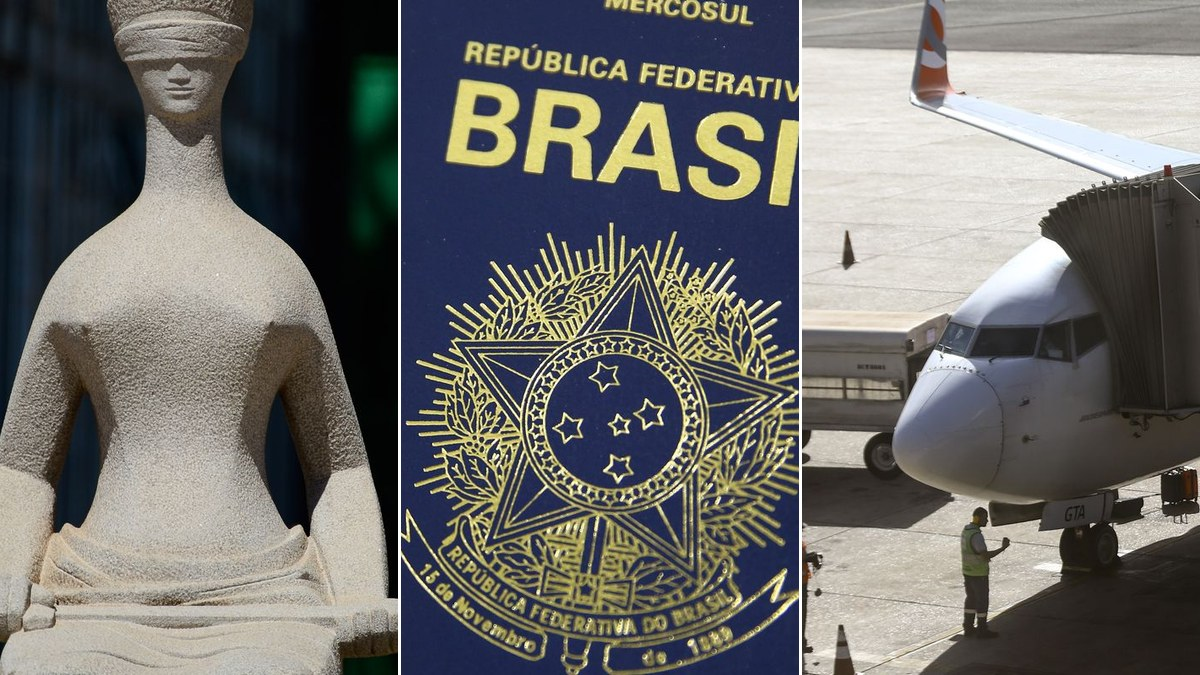
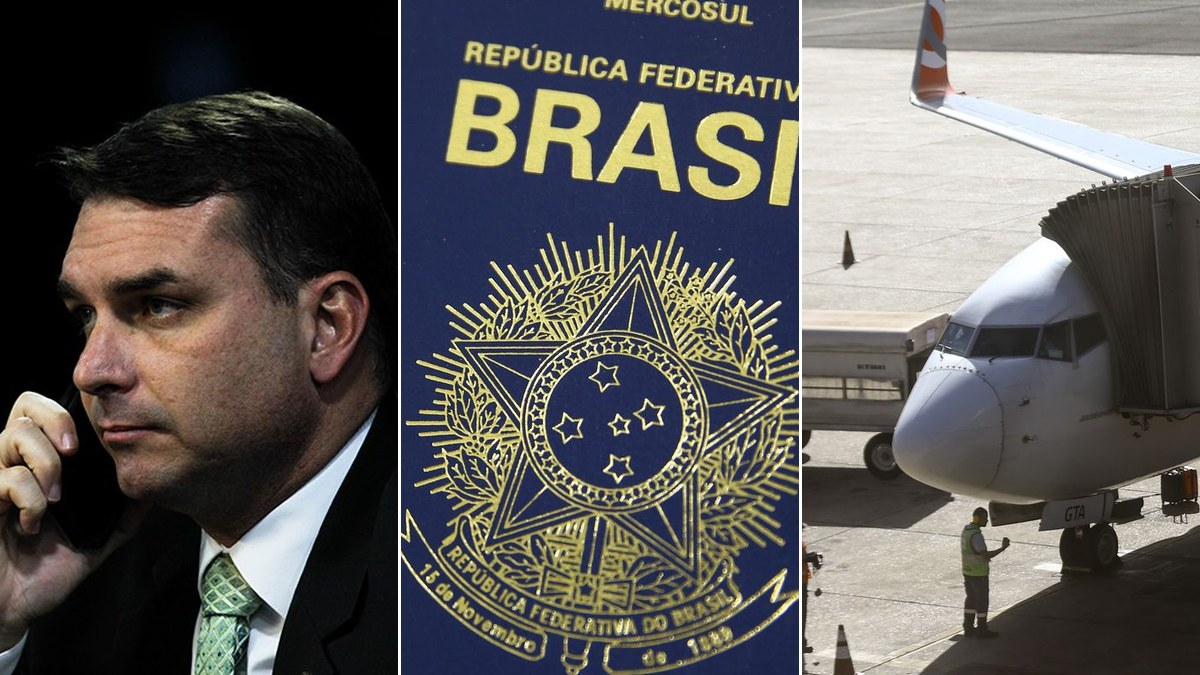
Capa do Flávio: rosto dele no lugar da estátua da Justiça
Claude-Session: https://claude.ai/code/session_01Xv8hseyMzanuP1xT9NWyRc

Changed region(s): [[0.0, 0.0, 0.3392, 1.0]]

diff --git a/noticias/flavio-bolsonaro-prazo-passaportes-vence-pf-apura-saida-do-pais/index.html b/noticias/flavio-bolsonaro-prazo-passaportes-vence-pf-apura-saida-do-pais/index.html
@@ -36,7 +36,7 @@
 <p class="linha-fina">O senador não entregou os passaportes no prazo e deixou o país com a mulher e as filhas, segundo a PF, aliados e fontes do governo americano. O Departamento de Estado confirmou à CNN Brasil que vai emitir os vistos. Flávio não se manifestou.</p>
 <div class="assina"><strong>Da Redação</strong><span><time datetime="2026-10-27">terça-feira, 27 de outubro de 2026</time> · Atualizado em 27 out 2026</span></div>
 </div>
-<div class="wrap media"><figure class="hero"><img src="/img/capa/flavio-bolsonaro-prazo-passaportes-vence-pf-apura-saida-do-pais.jpg?v=9e80febb" alt="" width="1200" height="675"><figcaption>Estátua da Justiça, em frente ao STF (Marcello Casal Jr/Agência Brasil, 2009); passaporte brasileiro e avião em aeroporto (Marcelo Camargo/Agência Brasil, 2022). Fotos de arquivo</figcaption></figure></div>
+<div class="wrap media"><figure class="hero"><img src="/img/capa/flavio-bolsonaro-prazo-passaportes-vence-pf-apura-saida-do-pais.jpg?v=0541cc61" alt="" width="1200" height="675"><figcaption>Flávio Bolsonaro (Beto Barata/Agência Senado); passaporte brasileiro e avião em aeroporto (Marcelo Camargo/Agência Brasil, 2022). Fotos de arquivo</figcaption></figure></div>
 <div class="wrap estreita corpo">
 <aside class="pv pv-red"><b>O QUE ACONTECEU</b><p>Flávio foi proibido pelo STF de deixar o país e mandado entregar os passaportes. Não entregou, saiu do Brasil e vai receber visto dos EUA. A rota da viagem ainda não foi esclarecida.</p></aside>
 <p>O senador Flávio Bolsonaro (PL-RJ) fugiu do Brasil. Ele estava proibido pelo Supremo Tribunal Federal de deixar o país e tinha até as 11h desta terça-feira (27) para entregar os passaportes à Polícia Federal. Não entregou e saiu com a mulher e as filhas, segundo a PF, ouvida pela Gazeta do Povo, aliados e fontes do governo americano ouvidas pela CNN Brasil. O governo dos Estados Unidos vai emitir vistos para ele e a família e permitir a entrada deles no país, confirmou à CNN um alto funcionário do Departamento de Estado, em reportagem publicada às 18h11 de Brasília (17h11 em Mato Grosso). Flávio não se manifestou.</p>
@@ -77,7 +77,7 @@
 <h2>O que ainda não se sabe</h2>
 <p>Flávio não falou publicamente desde o vídeo de segunda. A PF e o STF não divulgaram nota oficial sobre a saída, a rota da viagem não foi confirmada e a Argentina nega que ele tenha entrado no país. O Departamento de Estado não disse quando os vistos serão emitidos. O Agora Praça atualiza esta matéria depois da entrevista anunciada por aliados para quarta-feira (28).</p>
 <figure class="reel"><video controls playsinline preload="none" poster="/video/flavio-visto.jpg" width="1080" height="1920"><source src="/video/flavio-visto.mp4" type="video/mp4"></video><figcaption>Vídeo publicado no Instagram do Agora Praça</figcaption></figure>
-<p class="obs">Fotos de arquivo: Marcello Casal Jr/Agência Brasil (2009) e Marcelo Camargo/Agência Brasil (2022).</p>
+<p class="obs">Fotos de arquivo: Beto Barata/Agência Senado e Marcelo Camargo/Agência Brasil (2022).</p>
 <section class="fontes"><h2>Fontes</h2><ul><li><a href="https://www.cnnbrasil.com.br/internacional/departamento-de-estado-dos-eua-diz-a-cnn-que-emitira-vistos-para-flavio/" rel="noopener">CNN Brasil, Departamento de Estado confirma vistos para Flávio e família (27/10, 18h11)</a></li><li><a href="https://www.cnnbrasil.com.br/blogs/jussara-soares/politica/flavio-chega-com-mulher-e-filhas-aos-eua/" rel="noopener">CNN Brasil, coluna de Jussara Soares: Flávio chega com mulher e filhas aos EUA (27/10, 17h39)</a></li><li><a href="https://piauihoje.com/noticias/politica/flavio-bolsonaro-chega-aos-eua-e-deve-dar-entrevista-na-quarta-feira-28-diz-aliado-469475.html" rel="noopener">UOL, via Portal Piauí Hoje, aliado confirma chegada e entrevista na quarta (27/10, 17h19)</a></li><li><a href="https://www.metropoles.com/mundo/aliado-de-trump-diz-que-flavio-bolsonaro-chegou-aos-eua-em-seguranca" rel="noopener">Metrópoles, Simón Levy diz que Flávio chegou aos EUA (27/10)</a></li><li><a href="https://laopinion.com/2025/10/30/simon-levy-exfuncionario-de-amlo-dice-que-esta-en-ee-uu-sheinbaum-afirma-que-fue-arrestado-en-portugal/" rel="noopener">La Opinión, quem é Simón Levy e as acusações no México (30/10/2025)</a></li><li><a href="https://www.gazetadopovo.com.br/republica/pf-confirma-flavio-bolsonaro-deixou-brasil/" rel="noopener">Gazeta do Povo, a PF confirmaria a saída, por autoridade sem nome (27/10, atualizada às 14h21)</a></li><li><a href="https://www.cnnbrasil.com.br/politica/aliados-dizem-que-flavio-bolsonaro-esta-fora-do-brasil/" rel="noopener">CNN Brasil, aliados dizem que Flávio está fora do Brasil (27/10, 14h14)</a></li><li><a href="https://metropoles.com/colunas/igor-gadelha/michelle-bolsonaro-confirma-a-aliados-que-flavio-deixou-o-brasil" rel="noopener">Metrópoles, Michelle Bolsonaro teria confirmado a aliados (27/10, 14h27)</a></li><li><a href="https://www.aosfatos.org/noticias/o-que-se-sabe-suposta-fuga-flavio-bolsonaro/" rel="noopener">Aos Fatos, o que se sabe sobre a suposta fuga (27/10, 13h05)</a></li><li><a href="https://www.metropoles.com/colunas/grande-angular/flavio-bolsonaro-foi-embora-para-os-eua-aviao-em-voo" rel="noopener">Metrópoles, coluna Grande Angular: &quot;Flávio Bolsonaro foi embora para os EUA&quot; (27/10, 13h41)</a></li><li><a href="https://jovempan.com.br/politica/flavio-bolsonaro-fugiu-do-brasil-e-esta-em-aviao-a-caminho-dos-eua/" rel="noopener">Jovem Pan, Flávio teria deixado o Brasil, segundo fontes não identificadas (27/10, 14h11)</a></li><li><a href="https://www.gazetadopovo.com.br/republica/advogados-confirmam-nao-localizaram-flavio-entregar-passaportes/" rel="noopener">Gazeta do Povo, advogados não localizaram Flávio e o prazo de 11h (27/10, 12h19)</a></li><li><a href="https://www.cnnbrasil.com.br/politica/sumico-de-flavio-incomoda-aliados-que-cobram-respostas/" rel="noopener">CNN Brasil, o sumiço e a posição da defesa e dos aliados (27/10, 11h51)</a></li><li><a href="https://www.cnnbrasil.com.br/eleicoes/flavio-diz-que-pf-exigiu-seus-passaportes-apos-visita-a-bolsonaro/" rel="noopener">CNN Brasil, o vídeo de Flávio (26/10, 16h52)</a></li><li><a href="https://www.correiodamanha.com.br/politica/2026/10/330309-argentina-nega-entrada-de-flavio-bolsonaro-no-pais-diz-governo-milei.html" rel="noopener">Correio da Manhã, reportagem do g1 com a resposta da Argentina (27/10)</a></li><li><a href="https://jovempan.com.br/politica/pf-aciona-autoridades-argentinas-para-apurar-possivel-fuga-de-flavio-do-brasil/" rel="noopener">Jovem Pan, a PF aciona autoridades argentinas (27/10, 9h29)</a></li><li><a href="https://www.brasildefato.com.br/2026/10/27/pf-rastreia-fronteiras-e-aciona-argentina-para-saber-se-flavio-bolsonaro-deixou-o-pais-aliados-negam/" rel="noopener">Brasil de Fato, o que se sabe sobre a suposta saída (27/10)</a></li><li><a href="https://www.metropoles.com/colunas/igor-gadelha/pf-aciona-autoridades-da-argentina-para-checar-possivel-viagem-de-flavio" rel="noopener">Metrópoles, coluna de Igor Gadelha (27/10)</a></li><li><a href="https://ndmais.com.br/politica/flavio-bolsonaro-ainda-nao-entregou-passaportes-moraes/" rel="noopener">ND Mais, Flávio ainda não entregou os passaportes (27/10)</a></li><li><a href="https://timesbrasil.com.br/brasil/moraes-bloqueia-r-6-bilhoes-e-cancela-passaportes-de-advogado-willer-tomaz/" rel="noopener">Times Brasil, Moraes bloqueia R$ 6 bilhões e cancela passaportes de Willer Tomaz (24/10)</a></li><li><a href="https://www.tse.jus.br/comunicacao/noticias/2026/Outubro/presidente-do-tse-anuncia-reeleicao-de-lula-e-faz-balanco-do-2o-turno-das-eleicoes-2026" rel="noopener">TSE, resultado do segundo turno (26/10)</a></li></ul><p class="obs">Viu um erro? Escreva para <a href="mailto:contato@agorapraca.com.br">contato@agorapraca.com.br</a>. Toda correção fica registrada na página de <a href="/sobre/#correcoes">correções</a>.</p></section>
 <div class="share"><a class="btn" href="https://www.instagram.com/agorapraca/" rel="noopener">Seguir no Instagram</a></div>
 </div>

diff --git a/politica/index.html b/politica/index.html
@@ -31,7 +31,7 @@
 </div></header>
 <main id="conteudo">
 <section class="sec"><div class="wrap"><div class="sec-head"><h1 class="h1-sec">Política</h1><span>Votações, decisões de governo e uso do dinheiro de todos, em Brasília e em Mato Grosso.</span></div>
-<div class="grade"><article class="item"><a href="/noticias/flavio-bolsonaro-prazo-passaportes-vence-pf-apura-saida-do-pais/"><div class="thumb"><img src="/img/capa/flavio-bolsonaro-prazo-passaportes-vence-pf-apura-saida-do-pais.jpg?v=9e80febb" alt="" loading="lazy" width="1200" height="675"></div>
+<div class="grade"><article class="item"><a href="/noticias/flavio-bolsonaro-prazo-passaportes-vence-pf-apura-saida-do-pais/"><div class="thumb"><img src="/img/capa/flavio-bolsonaro-prazo-passaportes-vence-pf-apura-saida-do-pais.jpg?v=0541cc61" alt="" loading="lazy" width="1200" height="675"></div>
 <div class="item-txt"><span class="kicker kicker-red">Política</span><h3>Flávio Bolsonaro foge do Brasil depois de ser proibido pelo STF de sair do país; EUA vão dar visto a ele e à família</h3><time datetime="2026-10-27">27 out 2026</time></div></a></article><article class="item"><a href="/noticias/tse-24-horas-meta-x-investigacao-favorecimento-flavio/"><div class="thumb"><img src="/img/capa/tse-24-horas-meta-x-investigacao-favorecimento-flavio.jpg?v=8314124a" alt="" loading="lazy" width="1200" height="675"></div>
 <div class="item-txt"><span class="kicker kicker-red">Política</span><h3>TSE dá 24 horas para Meta e X explicarem como tratam conteúdos de Lula e Flávio</h3><time datetime="2026-10-23">23 out 2026</time></div></a></article><article class="item"><a href="/noticias/tse-24-horas-meta-tratamento-igual-lula-flavio/"><div class="thumb"><img src="/img/thumb/meta.jpg?v=4d66564a" alt="" loading="lazy" width="1200" height="675"></div>
 <div class="item-txt"><span class="kicker kicker-red">Política</span><h3>TSE dá 24 horas para a Meta comprovar tratamento igual a Lula e Flávio</h3><time datetime="2026-10-19">19 out 2026</time></div></a></article><article class="item"><a href="/noticias/franca-toque-de-recolher-paris-protestos-saques/"><div class="thumb"><img src="/img/thumb/franca.jpg?v=5c9b748d" alt="" loading="lazy" width="1200" height="675"></div>

diff --git a/noticias/tse-24-horas-meta-tratamento-igual-lula-flavio/index.html b/noticias/tse-24-horas-meta-tratamento-igual-lula-flavio/index.html
@@ -60,7 +60,7 @@
 <div class="share"><a class="btn" href="https://www.instagram.com/agorapraca/" rel="noopener">Seguir no Instagram</a></div>
 </div>
 </article>
-<section class="sec"><div class="wrap"><div class="sec-head"><h2>Leia também</h2></div><div class="grade"><article class="item"><a href="/noticias/flavio-bolsonaro-prazo-passaportes-vence-pf-apura-saida-do-pais/"><div class="thumb"><img src="/img/capa/flavio-bolsonaro-prazo-passaportes-vence-pf-apura-saida-do-pais.jpg?v=9e80febb" alt="" loading="lazy" width="1200" height="675"></div>
+<section class="sec"><div class="wrap"><div class="sec-head"><h2>Leia também</h2></div><div class="grade"><article class="item"><a href="/noticias/flavio-bolsonaro-prazo-passaportes-vence-pf-apura-saida-do-pais/"><div class="thumb"><img src="/img/capa/flavio-bolsonaro-prazo-passaportes-vence-pf-apura-saida-do-pais.jpg?v=0541cc61" alt="" loading="lazy" width="1200" height="675"></div>
 <div class="item-txt"><span class="kicker kicker-red">Política</span><h3>Flávio Bolsonaro foge do Brasil depois de ser proibido pelo STF de sair do país; EUA vão dar visto a ele e à família</h3><time datetime="2026-10-27">27 out 2026</time></div></a></article><article class="item"><a href="/noticias/tse-24-horas-meta-x-investigacao-favorecimento-flavio/"><div class="thumb"><img src="/img/capa/tse-24-horas-meta-x-investigacao-favorecimento-flavio.jpg?v=8314124a" alt="" loading="lazy" width="1200" height="675"></div>
 <div class="item-txt"><span class="kicker kicker-red">Política</span><h3>TSE dá 24 horas para Meta e X explicarem como tratam conteúdos de Lula e Flávio</h3><time datetime="2026-10-23">23 out 2026</time></div></a></article><article class="item"><a href="/noticias/franca-toque-de-recolher-paris-protestos-saques/"><div class="thumb"><img src="/img/thumb/franca.jpg?v=5c9b748d" alt="" loading="lazy" width="1200" height="675"></div>
 <div class="item-txt"><span class="kicker kicker-red">Política</span><h3>França impõe toque de recolher em áreas de Paris após protestos e saques</h3><time datetime="2026-10-19">19 out 2026</time></div></a></article></div></div></section>

diff --git a/noticias/analise-debate-band-flavio-atras-de-lula-marcal/index.html b/noticias/analise-debate-band-flavio-atras-de-lula-marcal/index.html
@@ -62,7 +62,7 @@
 <div class="share"><a class="btn" href="https://www.instagram.com/agorapraca/" rel="noopener">Seguir no Instagram</a></div>
 </div>
 </article>
-<section class="sec"><div class="wrap"><div class="sec-head"><h2>Leia também</h2></div><div class="grade"><article class="item"><a href="/noticias/flavio-bolsonaro-prazo-passaportes-vence-pf-apura-saida-do-pais/"><div class="thumb"><img src="/img/capa/flavio-bolsonaro-prazo-passaportes-vence-pf-apura-saida-do-pais.jpg?v=9e80febb" alt="" loading="lazy" width="1200" height="675"></div>
+<section class="sec"><div class="wrap"><div class="sec-head"><h2>Leia também</h2></div><div class="grade"><article class="item"><a href="/noticias/flavio-bolsonaro-prazo-passaportes-vence-pf-apura-saida-do-pais/"><div class="thumb"><img src="/img/capa/flavio-bolsonaro-prazo-passaportes-vence-pf-apura-saida-do-pais.jpg?v=0541cc61" alt="" loading="lazy" width="1200" height="675"></div>
 <div class="item-txt"><span class="kicker kicker-red">Política</span><h3>Flávio Bolsonaro foge do Brasil depois de ser proibido pelo STF de sair do país; EUA vão dar visto a ele e à família</h3><time datetime="2026-10-27">27 out 2026</time></div></a></article><article class="item"><a href="/noticias/tse-24-horas-meta-x-investigacao-favorecimento-flavio/"><div class="thumb"><img src="/img/capa/tse-24-horas-meta-x-investigacao-favorecimento-flavio.jpg?v=8314124a" alt="" loading="lazy" width="1200" height="675"></div>
 <div class="item-txt"><span class="kicker kicker-red">Política</span><h3>TSE dá 24 horas para Meta e X explicarem como tratam conteúdos de Lula e Flávio</h3><time datetime="2026-10-23">23 out 2026</time></div></a></article><article class="item"><a href="/noticias/tse-24-horas-meta-tratamento-igual-lula-flavio/"><div class="thumb"><img src="/img/thumb/meta.jpg?v=4d66564a" alt="" loading="lazy" width="1200" height="675"></div>
 <div class="item-txt"><span class="kicker kicker-red">Política</span><h3>TSE dá 24 horas para a Meta comprovar tratamento igual a Lula e Flávio</h3><time datetime="2026-10-19">19 out 2026</time></div></a></article></div></div></section>

diff --git a/noticias/franca-toque-de-recolher-paris-protestos-saques/index.html b/noticias/franca-toque-de-recolher-paris-protestos-saques/index.html
@@ -61,7 +61,7 @@
 <div class="share"><a class="btn" href="https://www.instagram.com/agorapraca/" rel="noopener">Seguir no Instagram</a></div>
 </div>
 </article>
-<section class="sec"><div class="wrap"><div class="sec-head"><h2>Leia também</h2></div><div class="grade"><article class="item"><a href="/noticias/flavio-bolsonaro-prazo-passaportes-vence-pf-apura-saida-do-pais/"><div class="thumb"><img src="/img/capa/flavio-bolsonaro-prazo-passaportes-vence-pf-apura-saida-do-pais.jpg?v=9e80febb" alt="" loading="lazy" width="1200" height="675"></div>
+<section class="sec"><div class="wrap"><div class="sec-head"><h2>Leia também</h2></div><div class="grade"><article class="item"><a href="/noticias/flavio-bolsonaro-prazo-passaportes-vence-pf-apura-saida-do-pais/"><div class="thumb"><img src="/img/capa/flavio-bolsonaro-prazo-passaportes-vence-pf-apura-saida-do-pais.jpg?v=0541cc61" alt="" loading="lazy" width="1200" height="675"></div>
 <div class="item-txt"><span class="kicker kicker-red">Política</span><h3>Flávio Bolsonaro foge do Brasil depois de ser proibido pelo STF de sair do país; EUA vão dar visto a ele e à família</h3><time datetime="2026-10-27">27 out 2026</time></div></a></article><article class="item"><a href="/noticias/tse-24-horas-meta-x-investigacao-favorecimento-flavio/"><div class="thumb"><img src="/img/capa/tse-24-horas-meta-x-investigacao-favorecimento-flavio.jpg?v=8314124a" alt="" loading="lazy" width="1200" height="675"></div>
 <div class="item-txt"><span class="kicker kicker-red">Política</span><h3>TSE dá 24 horas para Meta e X explicarem como tratam conteúdos de Lula e Flávio</h3><time datetime="2026-10-23">23 out 2026</time></div></a></article><article class="item"><a href="/noticias/tse-24-horas-meta-tratamento-igual-lula-flavio/"><div class="thumb"><img src="/img/thumb/meta.jpg?v=4d66564a" alt="" loading="lazy" width="1200" height="675"></div>
 <div class="item-txt"><span class="kicker kicker-red">Política</span><h3>TSE dá 24 horas para a Meta comprovar tratamento igual a Lula e Flávio</h3><time datetime="2026-10-19">19 out 2026</time></div></a></article></div></div></section>

diff --git a/noticias/missil-inflavel-ataque-nuclear-ato-pro-flavio/index.html b/noticias/missil-inflavel-ataque-nuclear-ato-pro-flavio/index.html
@@ -53,7 +53,7 @@
 <div class="share"><a class="btn" href="https://www.instagram.com/agorapraca/" rel="noopener">Seguir no Instagram</a></div>
 </div>
 </article>
-<section class="sec"><div class="wrap"><div class="sec-head"><h2>Leia também</h2></div><div class="grade"><article class="item"><a href="/noticias/flavio-bolsonaro-prazo-passaportes-vence-pf-apura-saida-do-pais/"><div class="thumb"><img src="/img/capa/flavio-bolsonaro-prazo-passaportes-vence-pf-apura-saida-do-pais.jpg?v=9e80febb" alt="" loading="lazy" width="1200" height="675"></div>
+<section class="sec"><div class="wrap"><div class="sec-head"><h2>Leia também</h2></div><div class="grade"><article class="item"><a href="/noticias/flavio-bolsonaro-prazo-passaportes-vence-pf-apura-saida-do-pais/"><div class="thumb"><img src="/img/capa/flavio-bolsonaro-prazo-passaportes-vence-pf-apura-saida-do-pais.jpg?v=0541cc61" alt="" loading="lazy" width="1200" height="675"></div>
 <div class="item-txt"><span class="kicker kicker-red">Política</span><h3>Flávio Bolsonaro foge do Brasil depois de ser proibido pelo STF de sair do país; EUA vão dar visto a ele e à família</h3><time datetime="2026-10-27">27 out 2026</time></div></a></article><article class="item"><a href="/noticias/tse-24-horas-meta-x-investigacao-favorecimento-flavio/"><div class="thumb"><img src="/img/capa/tse-24-horas-meta-x-investigacao-favorecimento-flavio.jpg?v=8314124a" alt="" loading="lazy" width="1200" height="675"></div>
 <div class="item-txt"><span class="kicker kicker-red">Política</span><h3>TSE dá 24 horas para Meta e X explicarem como tratam conteúdos de Lula e Flávio</h3><time datetime="2026-10-23">23 out 2026</time></div></a></article><article class="item"><a href="/noticias/tse-24-horas-meta-tratamento-igual-lula-flavio/"><div class="thumb"><img src="/img/thumb/meta.jpg?v=4d66564a" alt="" loading="lazy" width="1200" height="675"></div>
 <div class="item-txt"><span class="kicker kicker-red">Política</span><h3>TSE dá 24 horas para a Meta comprovar tratamento igual a Lula e Flávio</h3><time datetime="2026-10-19">19 out 2026</time></div></a></article></div></div></section>

diff --git a/noticias/romenia-abate-drones-otan-mar-negro/index.html b/noticias/romenia-abate-drones-otan-mar-negro/index.html
@@ -52,7 +52,7 @@
 <div class="share"><a class="btn" href="https://www.instagram.com/agorapraca/" rel="noopener">Seguir no Instagram</a></div>
 </div>
 </article>
-<section class="sec"><div class="wrap"><div class="sec-head"><h2>Leia também</h2></div><div class="grade"><article class="item"><a href="/noticias/flavio-bolsonaro-prazo-passaportes-vence-pf-apura-saida-do-pais/"><div class="thumb"><img src="/img/capa/flavio-bolsonaro-prazo-passaportes-vence-pf-apura-saida-do-pais.jpg?v=9e80febb" alt="" loading="lazy" width="1200" height="675"></div>
+<section class="sec"><div class="wrap"><div class="sec-head"><h2>Leia também</h2></div><div class="grade"><article class="item"><a href="/noticias/flavio-bolsonaro-prazo-passaportes-vence-pf-apura-saida-do-pais/"><div class="thumb"><img src="/img/capa/flavio-bolsonaro-prazo-passaportes-vence-pf-apura-saida-do-pais.jpg?v=0541cc61" alt="" loading="lazy" width="1200" height="675"></div>
 <div class="item-txt"><span class="kicker kicker-red">Política</span><h3>Flávio Bolsonaro foge do Brasil depois de ser proibido pelo STF de sair do país; EUA vão dar visto a ele e à família</h3><time datetime="2026-10-27">27 out 2026</time></div></a></article><article class="item"><a href="/noticias/tse-24-horas-meta-x-investigacao-favorecimento-flavio/"><div class="thumb"><img src="/img/capa/tse-24-horas-meta-x-investigacao-favorecimento-flavio.jpg?v=8314124a" alt="" loading="lazy" width="1200" height="675"></div>
 <div class="item-txt"><span class="kicker kicker-red">Política</span><h3>TSE dá 24 horas para Meta e X explicarem como tratam conteúdos de Lula e Flávio</h3><time datetime="2026-10-23">23 out 2026</time></div></a></article><article class="item"><a href="/noticias/tse-24-horas-meta-tratamento-igual-lula-flavio/"><div class="thumb"><img src="/img/thumb/meta.jpg?v=4d66564a" alt="" loading="lazy" width="1200" height="675"></div>
 <div class="item-txt"><span class="kicker kicker-red">Política</span><h3>TSE dá 24 horas para a Meta comprovar tratamento igual a Lula e Flávio</h3><time datetime="2026-10-19">19 out 2026</time></div></a></article></div></div></section>

diff --git a/noticias/tce-30-dias-mt-obras-sem-fethab-2/index.html b/noticias/tce-30-dias-mt-obras-sem-fethab-2/index.html
@@ -51,7 +51,7 @@
 <div class="share"><a class="btn" href="https://www.instagram.com/agorapraca/" rel="noopener">Seguir no Instagram</a></div>
 </div>
 </article>
-<section class="sec"><div class="wrap"><div class="sec-head"><h2>Leia também</h2></div><div class="grade"><article class="item"><a href="/noticias/flavio-bolsonaro-prazo-passaportes-vence-pf-apura-saida-do-pais/"><div class="thumb"><img src="/img/capa/flavio-bolsonaro-prazo-passaportes-vence-pf-apura-saida-do-pais.jpg?v=9e80febb" alt="" loading="lazy" width="1200" height="675"></div>
+<section class="sec"><div class="wrap"><div class="sec-head"><h2>Leia também</h2></div><div class="grade"><article class="item"><a href="/noticias/flavio-bolsonaro-prazo-passaportes-vence-pf-apura-saida-do-pais/"><div class="thumb"><img src="/img/capa/flavio-bolsonaro-prazo-passaportes-vence-pf-apura-saida-do-pais.jpg?v=0541cc61" alt="" loading="lazy" width="1200" height="675"></div>
 <div class="item-txt"><span class="kicker kicker-red">Política</span><h3>Flávio Bolsonaro foge do Brasil depois de ser proibido pelo STF de sair do país; EUA vão dar visto a ele e à família</h3><time datetime="2026-10-27">27 out 2026</time></div></a></article><article class="item"><a href="/noticias/tse-24-horas-meta-x-investigacao-favorecimento-flavio/"><div class="thumb"><img src="/img/capa/tse-24-horas-meta-x-investigacao-favorecimento-flavio.jpg?v=8314124a" alt="" loading="lazy" width="1200" height="675"></div>
 <div class="item-txt"><span class="kicker kicker-red">Política</span><h3>TSE dá 24 horas para Meta e X explicarem como tratam conteúdos de Lula e Flávio</h3><time datetime="2026-10-23">23 out 2026</time></div></a></article><article class="item"><a href="/noticias/tse-24-horas-meta-tratamento-igual-lula-flavio/"><div class="thumb"><img src="/img/thumb/meta.jpg?v=4d66564a" alt="" loading="lazy" width="1200" height="675"></div>
 <div class="item-txt"><span class="kicker kicker-red">Política</span><h3>TSE dá 24 horas para a Meta comprovar tratamento igual a Lula e Flávio</h3><time datetime="2026-10-19">19 out 2026</time></div></a></article></div></div></section>

diff --git a/noticias/tse-24-horas-meta-x-investigacao-favorecimento-flavio/index.html b/noticias/tse-24-horas-meta-x-investigacao-favorecimento-flavio/index.html
@@ -60,7 +60,7 @@
 <div class="share"><a class="btn" href="https://www.instagram.com/agorapraca/" rel="noopener">Seguir no Instagram</a></div>
 </div>
 </article>
-<section class="sec"><div class="wrap"><div class="sec-head"><h2>Leia também</h2></div><div class="grade"><article class="item"><a href="/noticias/flavio-bolsonaro-prazo-passaportes-vence-pf-apura-saida-do-pais/"><div class="thumb"><img src="/img/capa/flavio-bolsonaro-prazo-passaportes-vence-pf-apura-saida-do-pais.jpg?v=9e80febb" alt="" loading="lazy" width="1200" height="675"></div>
+<section class="sec"><div class="wrap"><div class="sec-head"><h2>Leia também</h2></div><div class="grade"><article class="item"><a href="/noticias/flavio-bolsonaro-prazo-passaportes-vence-pf-apura-saida-do-pais/"><div class="thumb"><img src="/img/capa/flavio-bolsonaro-prazo-passaportes-vence-pf-apura-saida-do-pais.jpg?v=0541cc61" alt="" loading="lazy" width="1200" height="675"></div>
 <div class="item-txt"><span class="kicker kicker-red">Política</span><h3>Flávio Bolsonaro foge do Brasil depois de ser proibido pelo STF de sair do país; EUA vão dar visto a ele e à família</h3><time datetime="2026-10-27">27 out 2026</time></div></a></article><article class="item"><a href="/noticias/tse-24-horas-meta-tratamento-igual-lula-flavio/"><div class="thumb"><img src="/img/thumb/meta.jpg?v=4d66564a" alt="" loading="lazy" width="1200" height="675"></div>
 <div class="item-txt"><span class="kicker kicker-red">Política</span><h3>TSE dá 24 horas para a Meta comprovar tratamento igual a Lula e Flávio</h3><time datetime="2026-10-19">19 out 2026</time></div></a></article><article class="item"><a href="/noticias/franca-toque-de-recolher-paris-protestos-saques/"><div class="thumb"><img src="/img/thumb/franca.jpg?v=5c9b748d" alt="" loading="lazy" width="1200" height="675"></div>
 <div class="item-txt"><span class="kicker kicker-red">Política</span><h3>França impõe toque de recolher em áreas de Paris após protestos e saques</h3><time datetime="2026-10-19">19 out 2026</time></div></a></article></div></div></section>

diff --git a/index.html b/index.html
@@ -31,7 +31,7 @@
 </div></header>
 <main id="conteudo">
 <section class="topo"><div class="wrap topo-g">
-<div class="topo-lead"><article class="item item-g"><a href="/noticias/flavio-bolsonaro-prazo-passaportes-vence-pf-apura-saida-do-pais/"><div class="thumb"><img src="/img/capa/flavio-bolsonaro-prazo-passaportes-vence-pf-apura-saida-do-pais.jpg?v=9e80febb" alt="" loading="lazy" width="1200" height="675"></div>
+<div class="topo-lead"><article class="item item-g"><a href="/noticias/flavio-bolsonaro-prazo-passaportes-vence-pf-apura-saida-do-pais/"><div class="thumb"><img src="/img/capa/flavio-bolsonaro-prazo-passaportes-vence-pf-apura-saida-do-pais.jpg?v=0541cc61" alt="" loading="lazy" width="1200" height="675"></div>
 <div class="item-txt"><span class="kicker kicker-red">Política</span><h3>Flávio Bolsonaro foge do Brasil depois de ser proibido pelo STF de sair do país; EUA vão dar visto a ele e à família</h3><p class="fina">O senador não entregou os passaportes no prazo e deixou o país com a mulher e as filhas, segundo a PF, aliados e fontes do governo americano. O Departamento de Estado confirmou à CNN Brasil que vai emitir os vistos. Flávio não se manifestou.</p><time datetime="2026-10-27">27 out 2026</time></div></a></article></div>
 <div class="topo-lado"><article class="item"><a href="/noticias/cemaden-risco-alto-inundacao-sul-chapeco-200-mm/"><div class="thumb"><img src="/img/capa/cemaden-risco-alto-inundacao-sul-chapeco-200-mm.jpg?v=c95c56b2" alt="" loading="lazy" width="1200" height="675"></div>
 <div class="item-txt"><span class="kicker kicker-red">Serviço</span><h3>Cemaden prevê risco alto de inundação no Sul no sábado; Chapecó pode ter até 200 mm de chuva</h3><time datetime="2026-10-23">23 out 2026</time></div></a></article><article class="item"><a href="/noticias/tse-24-horas-meta-x-investigacao-favorecimento-flavio/"><div class="thumb"><img src="/img/capa/tse-24-horas-meta-x-investigacao-favorecimento-flavio.jpg?v=8314124a" alt="" loading="lazy" width="1200" height="675"></div>

diff --git a/_src/conteudo.py b/_src/conteudo.py
@@ -10,7 +10,7 @@ EDITORIAS = {
 # data no formato AAAA-MM-DD; a mais recente aparece primeiro.
 NOTICIAS = [
     {
-        "slug": "flavio-bolsonaro-prazo-passaportes-vence-pf-apura-saida-do-pais", "capa": "img/capa/flavio-bolsonaro-prazo-passaportes-vence-pf-apura-saida-do-pais.jpg", "capa_credito": "Estátua da Justiça, em frente ao STF (Marcello Casal Jr/Agência Brasil, 2009); passaporte brasileiro e avião em aeroporto (Marcelo Camargo/Agência Brasil, 2022). Fotos de arquivo",
+        "slug": "flavio-bolsonaro-prazo-passaportes-vence-pf-apura-saida-do-pais", "capa": "img/capa/flavio-bolsonaro-prazo-passaportes-vence-pf-apura-saida-do-pais.jpg", "capa_credito": "Flávio Bolsonaro (Beto Barata/Agência Senado); passaporte brasileiro e avião em aeroporto (Marcelo Camargo/Agência Brasil, 2022). Fotos de arquivo",
         "data": "2026-10-27", "ordem": 1,
         "editoria": "politica", "chapeu": "Eleições 2026",
         "video": "flavio-visto",
@@ -57,7 +57,7 @@ NOTICIAS = [
             "## O que ainda não se sabe",
             "Flávio não falou publicamente desde o vídeo de segunda. A PF e o STF não divulgaram nota oficial sobre a saída, a rota da viagem não foi confirmada e a Argentina nega que ele tenha entrado no país. O Departamento de Estado não disse quando os vistos serão emitidos. O Agora Praça atualiza esta matéria depois da entrevista anunciada por aliados para quarta-feira (28).",
         ],
-        "credito_extra": "Fotos de arquivo: Marcello Casal Jr/Agência Brasil (2009) e Marcelo Camargo/Agência Brasil (2022).",
+        "credito_extra": "Fotos de arquivo: Beto Barata/Agência Senado e Marcelo Camargo/Agência Brasil (2022).",
         "fontes": [
             ("CNN Brasil, Departamento de Estado confirma vistos para Flávio e família (27/10, 18h11)", "https://www.cnnbrasil.com.br/internacional/departamento-de-estado-dos-eua-diz-a-cnn-que-emitira-vistos-para-flavio/"),
             ("CNN Brasil, coluna de Jussara Soares: Flávio chega com mulher e filhas aos EUA (27/10, 17h39)", "https://www.cnnbrasil.com.br/blogs/jussara-soares/politica/flavio-chega-com-mulher-e-filhas-aos-eua/"),

diff --git a/_src/capas.py b/_src/capas.py
@@ -330,10 +330,10 @@ CAPAS = {
                            (0.15, 0.25, 0.75, 1), (0.25, 0, 0.75, 0.75)),
         "Lula em ato na Ceilândia (DF), em 9/10 (Bruno Peres/Agência Brasil), e Flávio em ato na Avenida Paulista, em 18/10 (Rafa Neddermeyer/Agência Brasil)"),
     "flavio-bolsonaro-prazo-passaportes-vence-pf-apura-saida-do-pais": (
-        lambda: foto_tripla("img/fotos/justica-estatua-stf.jpg", "img/fotos/passaporte-brasileiro.jpg",
+        lambda: foto_tripla("img/fotos/flavio-telefone-agencia-senado.jpg", "img/fotos/passaporte-brasileiro.jpg",
                             "img/fotos/aviao-aeroporto-ponte.jpg",
-                            ((0.37, 0, 0.67, 1), (0.5, 0, 0.82, 1), (0.18, 0, 0.5, 1))),
-        "Estátua da Justiça, em frente ao STF (Marcello Casal Jr/Agência Brasil, 2009); passaporte brasileiro e avião em aeroporto (Marcelo Camargo/Agência Brasil, 2022). Fotos de arquivo"),
+                            ((0.42, 0, 0.92, 1), (0.5, 0, 0.82, 1), (0.18, 0, 0.5, 1))),
+        "Flávio Bolsonaro (Beto Barata/Agência Senado); passaporte brasileiro e avião em aeroporto (Marcelo Camargo/Agência Brasil, 2022). Fotos de arquivo"),
     "missil-inflavel-ataque-nuclear-ato-pro-flavio": (
         lambda: foto_retrato("img/missil.jpg"),
         "Foto: reprodução / redes sociais (autoria não identificada)"),
